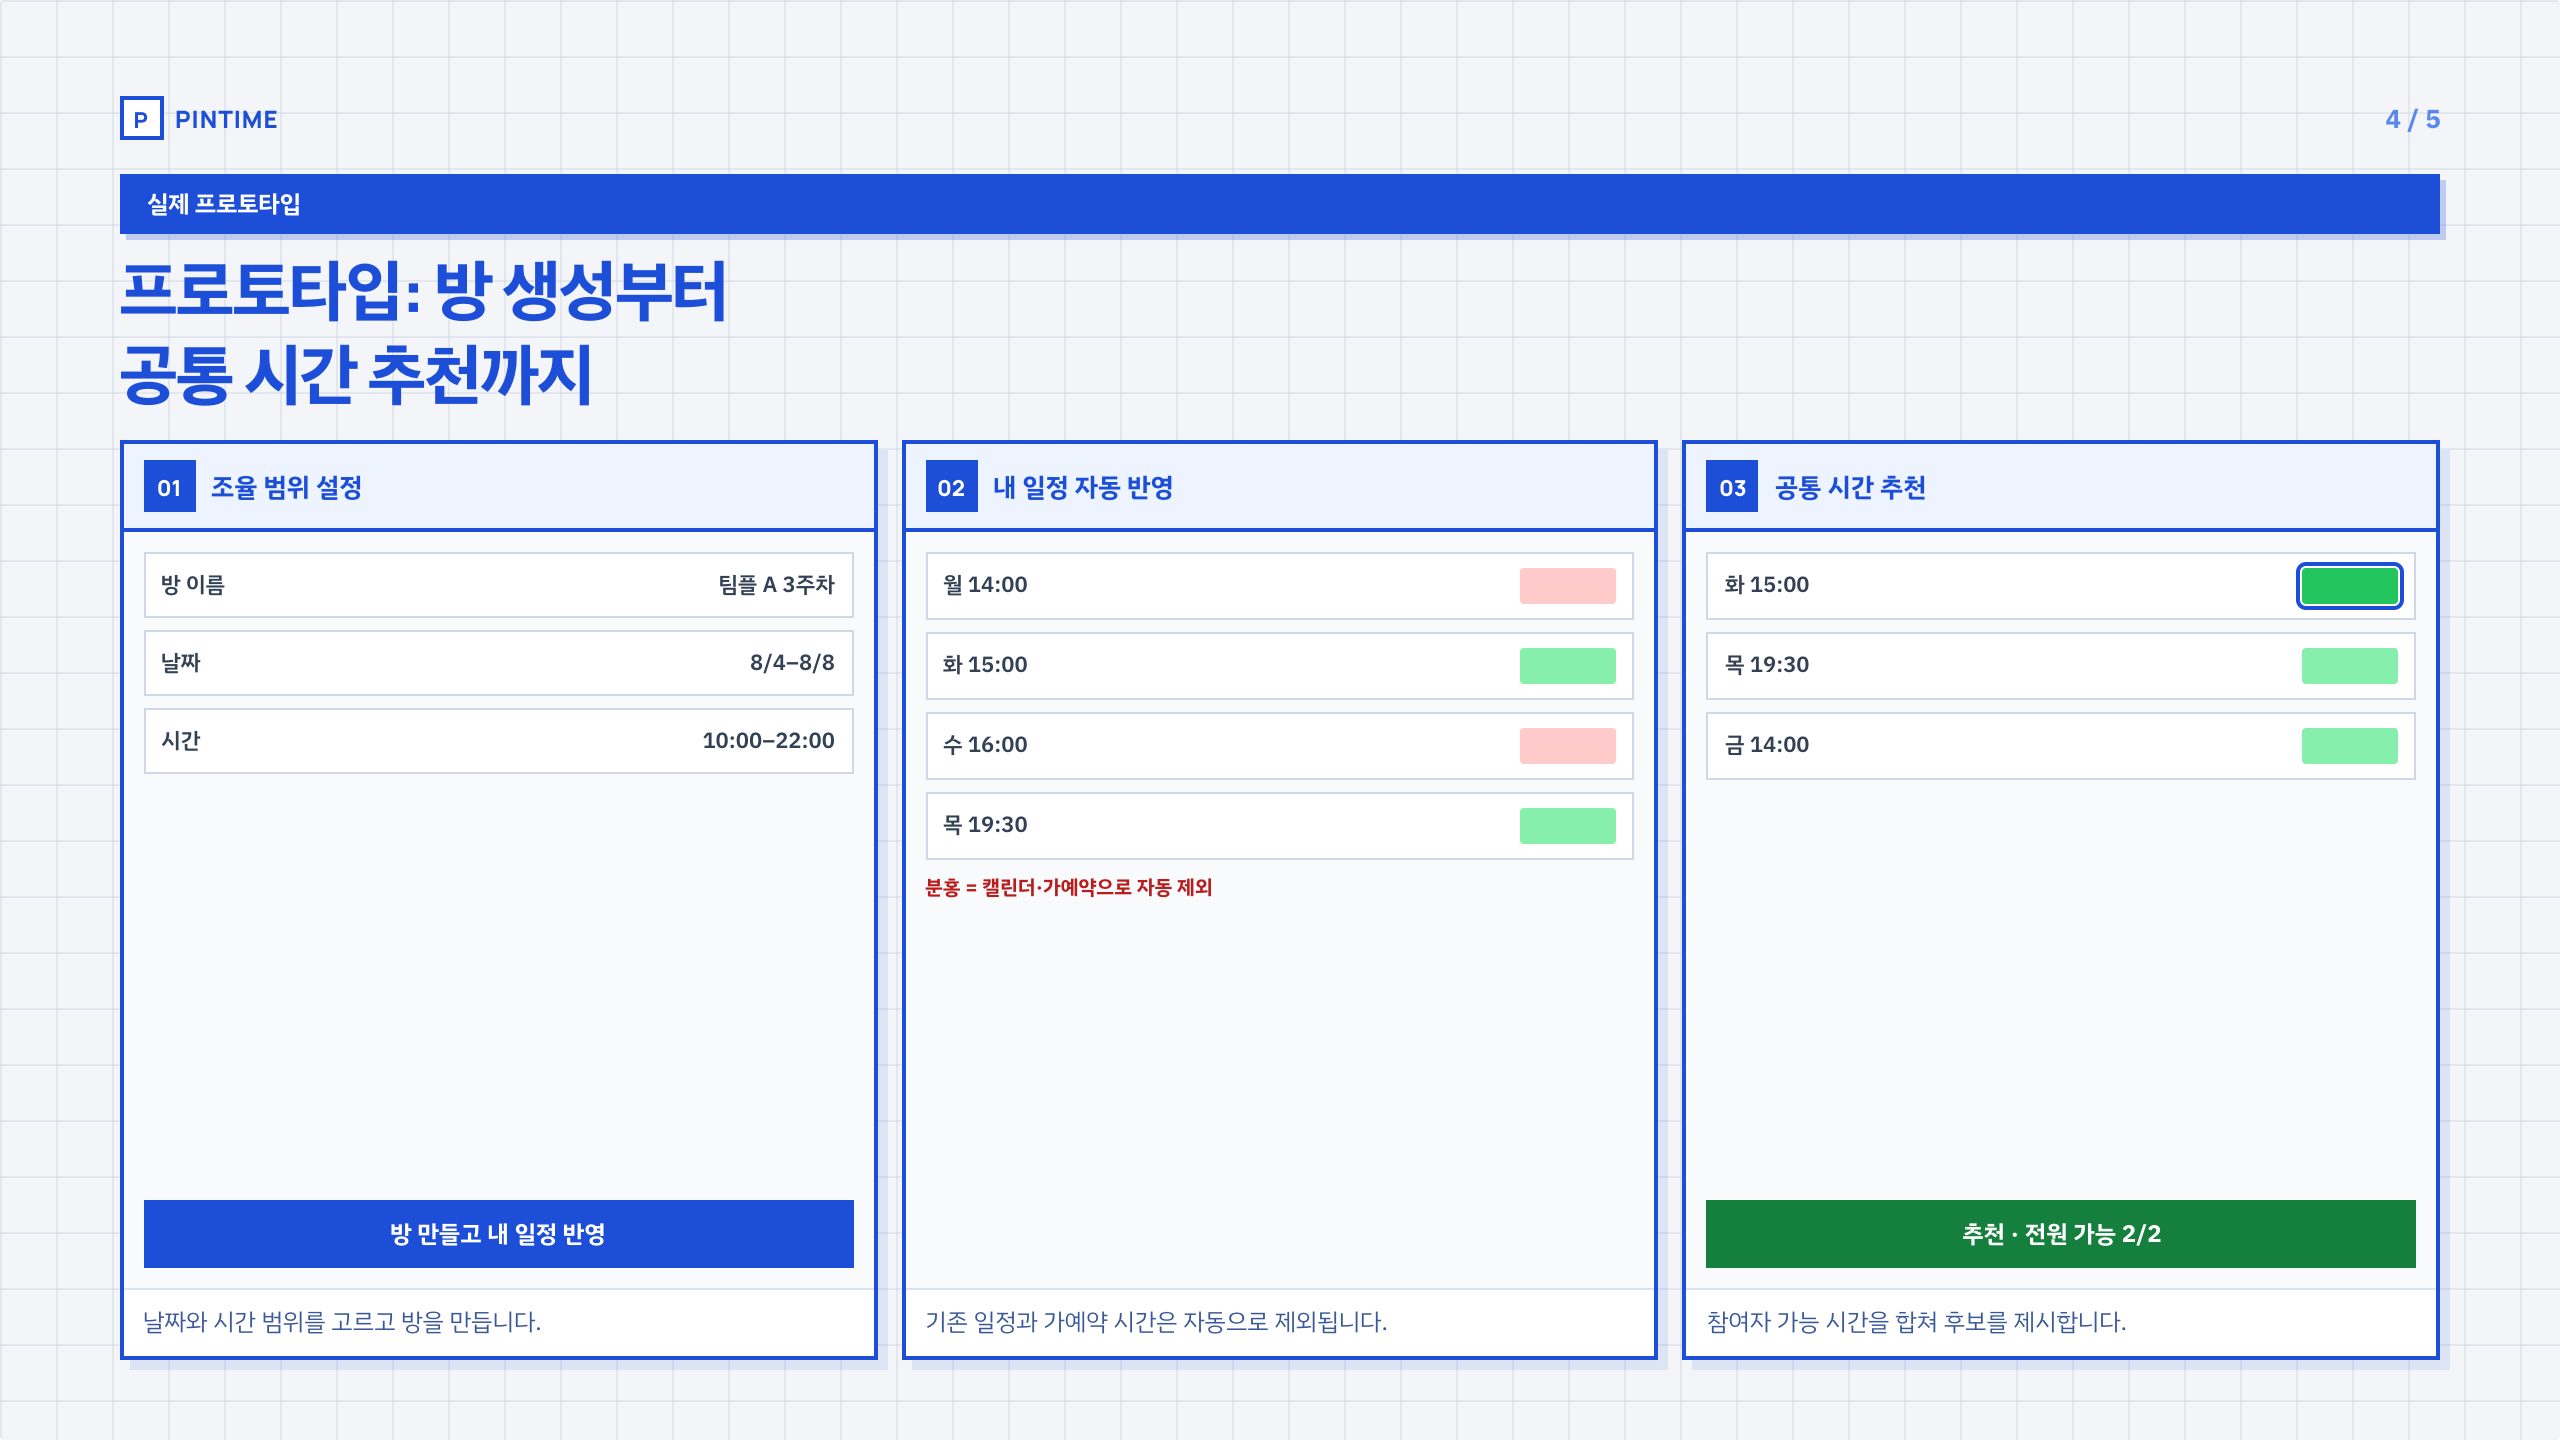
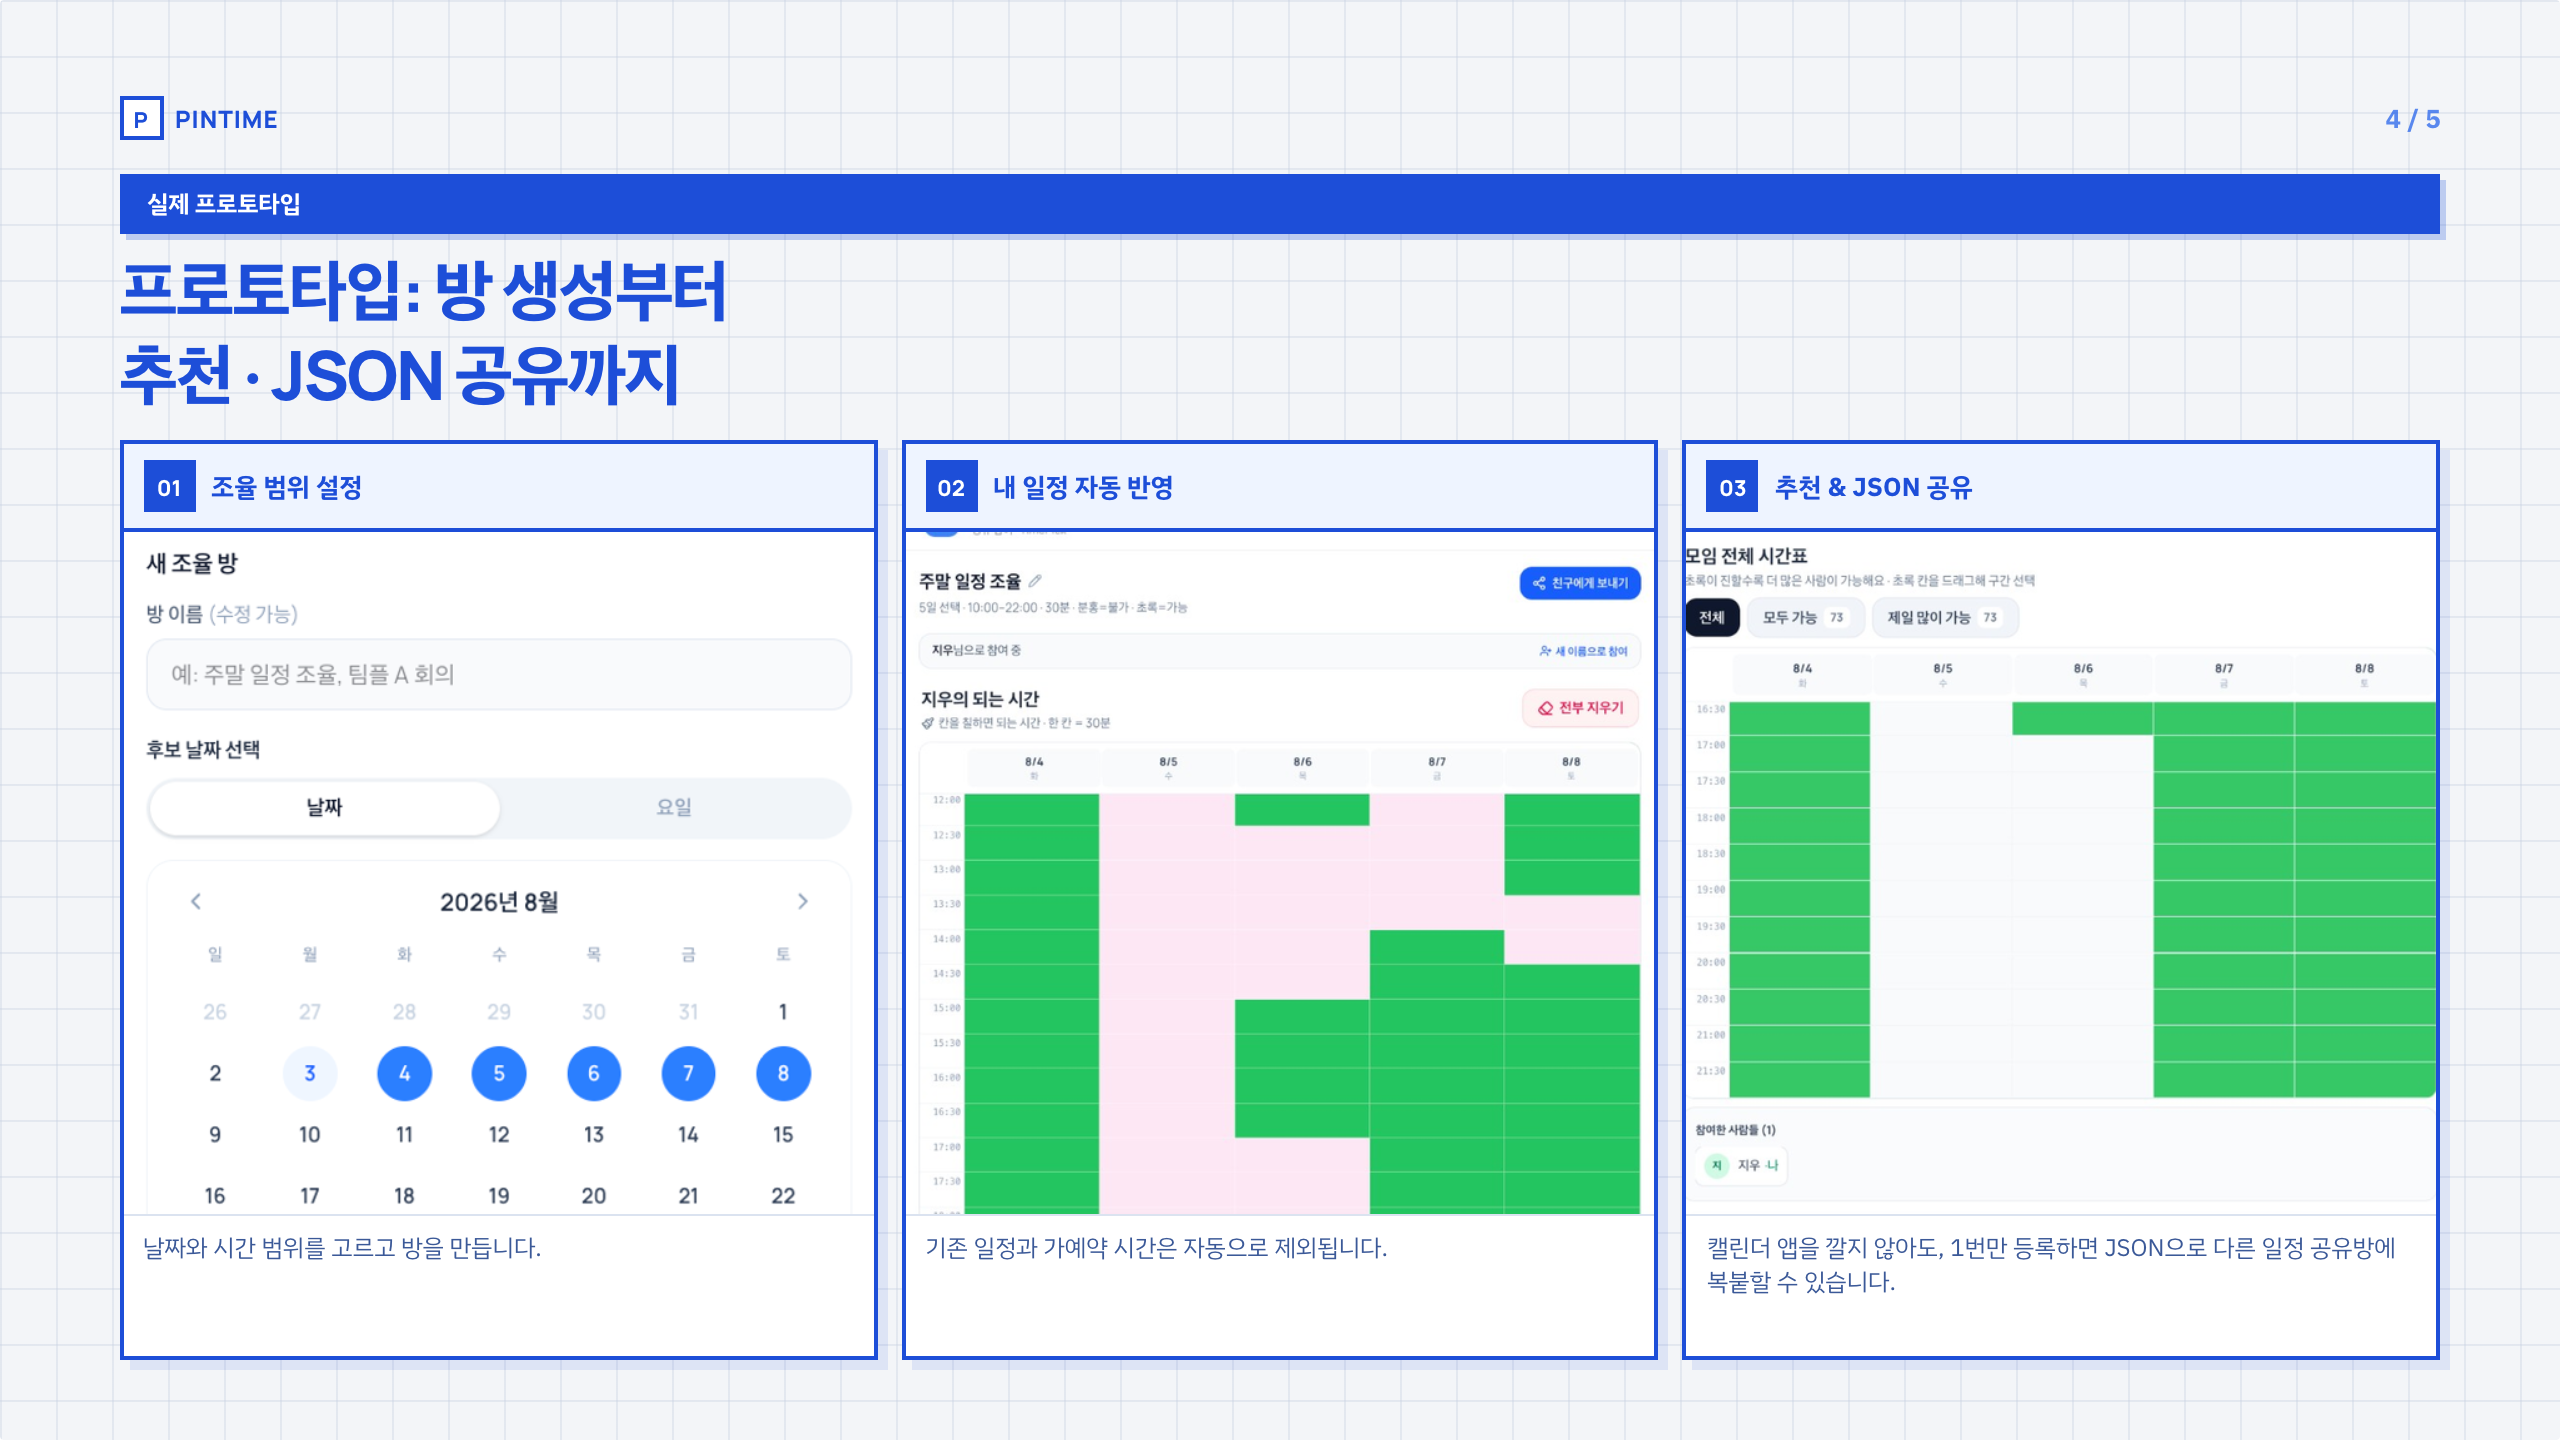
Use real prototype screenshots for pitch slide 4 and highlight JSON share.

diff --git a/public/pitch.html b/public/pitch.html
@@ -508,10 +508,13 @@
       .proto-card .shot {
         flex: 1;
         min-height: 0;
+        height: 3.55in;
+        max-height: 3.55in;
         object-fit: cover;
         object-position: top center;
         width: 100%;
         background: #f8fafc;
+        display: block;
       }
       .proto-card .cap {
         padding: 8px 10px;
@@ -2036,40 +2039,39 @@
           <span class="tape">실제 프로토타입</span>
           <h2 class="slide-title">
             프로토타입: 방 생성부터<br />
-            공통 시간 추천까지
+            추천 · JSON 공유까지
           </h2>
 
           <div class="proto-row">
             <div class="proto-card">
               <div class="ph"><span class="badge">01</span><b>조율 범위 설정</b></div>
-              <div class="proto-mock">
-                <div class="row"><span>방 이름</span><span>팀플 A 3주차</span></div>
-                <div class="row"><span>날짜</span><span>8/4–8/8</span></div>
-                <div class="row"><span>시간</span><span>10:00–22:00</span></div>
-                <div class="btn">방 만들고 내 일정 반영</div>
-              </div>
+              <img
+                class="shot"
+                src="/pitch-shots/proto-01-range.png"
+                alt="방 이름·날짜·시간 범위를 고르는 화면"
+              />
               <div class="cap">날짜와 시간 범위를 고르고 방을 만듭니다.</div>
             </div>
             <div class="proto-card">
               <div class="ph"><span class="badge">02</span><b>내 일정 자동 반영</b></div>
-              <div class="proto-mock">
-                <div class="row"><span>월 14:00</span><div class="slot busy" style="width:48px"></div></div>
-                <div class="row"><span>화 15:00</span><div class="slot free" style="width:48px"></div></div>
-                <div class="row"><span>수 16:00</span><div class="slot busy" style="width:48px"></div></div>
-                <div class="row"><span>목 19:30</span><div class="slot free" style="width:48px"></div></div>
-                <div style="font-size:10px;color:#b91c1c;font-weight:700;">분홍 = 캘린더·가예약으로 자동 제외</div>
-              </div>
+              <img
+                class="shot"
+                src="/pitch-shots/proto-02-mask.png"
+                alt="분홍·초록으로 표시된 되는 시간 표"
+              />
               <div class="cap">기존 일정과 가예약 시간은 자동으로 제외됩니다.</div>
             </div>
             <div class="proto-card">
-              <div class="ph"><span class="badge">03</span><b>공통 시간 추천</b></div>
-              <div class="proto-mock">
-                <div class="row"><span>화 15:00</span><div class="slot pick" style="width:48px"></div></div>
-                <div class="row"><span>목 19:30</span><div class="slot free" style="width:48px"></div></div>
-                <div class="row"><span>금 14:00</span><div class="slot free" style="width:48px"></div></div>
-                <div class="btn" style="background:#15803d">추천 · 전원 가능 2/2</div>
+              <div class="ph"><span class="badge">03</span><b>추천 &amp; JSON 공유</b></div>
+              <img
+                class="shot"
+                src="/pitch-shots/proto-03-json.png"
+                alt="공통 시간표와 JSON 복사·붙여넣기"
+              />
+              <div class="cap">
+                캘린더 앱을 깔지 않아도, 1번만 등록하면 JSON으로 다른 일정
+                공유방에 복붙할 수 있습니다.
               </div>
-              <div class="cap">참여자 가능 시간을 합쳐 후보를 제시합니다.</div>
             </div>
           </div>
         </div>

diff --git a/README.md b/README.md
@@ -26,9 +26,9 @@ HTML 소개서: [`public/pitch.html`](./public/pitch.html)
 
 ### 4. 프로토타입 흐름
 
-방 생성 → 내 일정 자동 반영(마스킹) → 공통 시간 추천까지, 실제 프로토타입 화면 흐름을 보여 줍니다.
+방 생성 → 내 일정 자동 반영(마스킹) → 추천 & JSON 공유. 캘린더 앱 없이도 한 번 등록한 일정을 JSON으로 다른 방에 복붙할 수 있습니다.
 
-![4. 방 생성부터 공통 시간 추천까지](./public/pitch-export/04-prototype.png)
+![4. 방 생성부터 JSON 공유까지](./public/pitch-export/04-prototype.png)
 
 ### 5. 확정과 캘린더 등록
 
